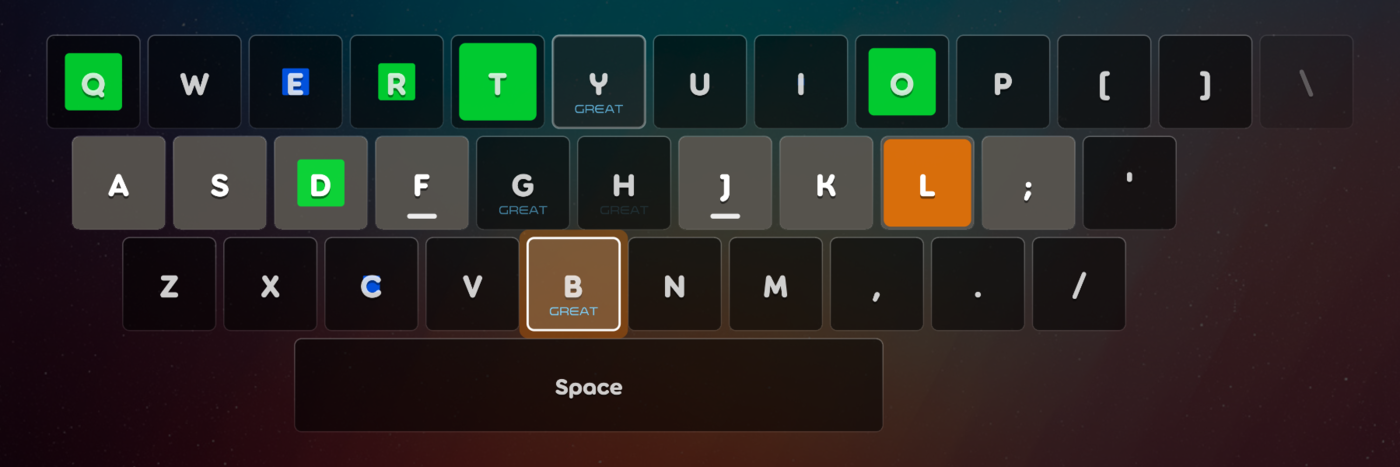
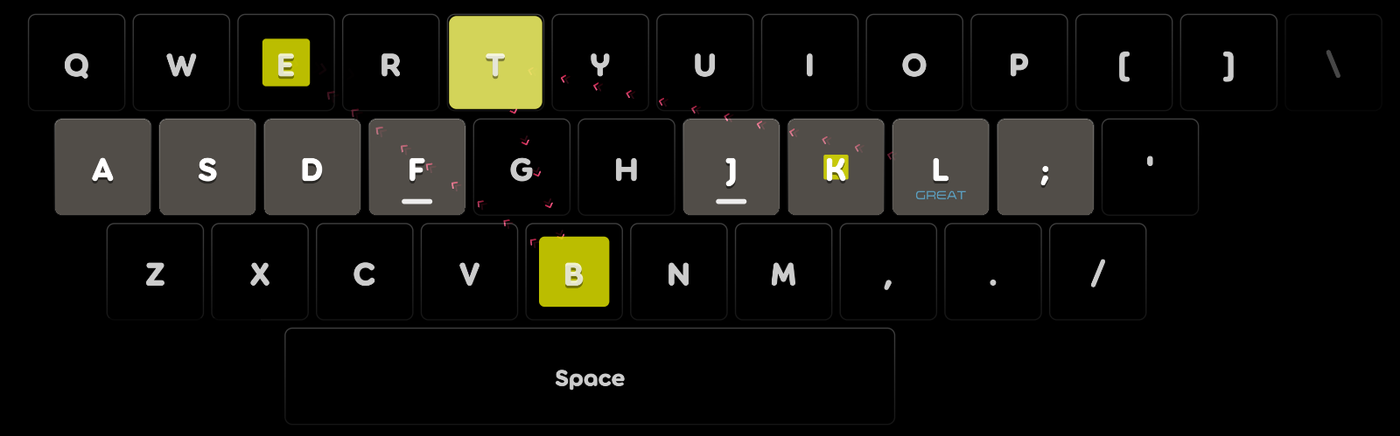
Rewrite the README for players, with new screenshots
The README now starts with what the game is and how to play it, lists
the mods in a table with keybosu!'s own explained, and keeps install and
settings short. Conversion details, building and tests moved into a
folded section for developers. The Turkish summary covers the mods,
follow points and the new setting.

New gameplay screenshot (follow points and the glow at the exact
moment) and one of the Left Hand mod with the unused half dimmed.

Built with AI assistance.

diff --git a/README.md b/README.md
@@ -1,114 +1,130 @@
 # keybosu!
 
-A custom ruleset for [osu!lazer](https://github.com/ppy/osu) where the whole keyboard is the playfield.
+**Your whole keyboard is the playfield.** keybosu! is a game mode (ruleset) for [osu!lazer](https://github.com/ppy/osu):
+coloured squares grow inside the keys of an on-screen keyboard, and you press each key the moment its square is full.
+Every osu! beatmap you already have works: it is converted automatically.
 
-![keybosu! gameplay: coloured squares growing inside the keys of an on-screen keyboard](docs/images/gameplay.png)
+![keybosu! gameplay: coloured squares growing inside the keys of an on-screen keyboard, with follow points leading from one note to the next](docs/images/gameplay.png)
 
-**[Download the latest release](../../releases/latest)** · [How to install](#install) · [Türkçe](#türkçe)
+**[Download the latest release](../../releases/latest)** · [Install](#install) · [Türkçe](#türkçe)
 
-Every letter key - plus the punctuation keys next to the letters - is a square on screen. A coloured square grows
-inside a key; **press that key the moment it fills the key**. Spinners become a hold on the Space bar.
-Any existing osu! beatmap can be played: it is converted automatically.
+## How to play
 
-## How it plays
-
-- **Notes:** each note of the original map goes to the key nearest to where it was on the osu! playfield
-  (top of the screen → top letter row, bottom → bottom row). A key never shows two notes at once: the next one
-  only appears when the previous one is over.
-- **Easier by default:** notes closer than half a beat (180 ms at least) are thinned out and notes at the same moment
-  become one. The keys at the far left and right get only about a quarter of the notes they would. The **Original Density** mod
-  (OG) brings back every note on every key.
-- **Sliders** become a press where they start and a press where they end. Short ones (under about one and a half
-  beats) are only the first press. Reverse sliders also get a press on every turn, unless the turns come that quickly.
-- **Spinners** (and taiko swells / catch banana showers) become a hold on the Space bar. Hold Space for the whole
-  spinner: a circle grows out from the middle as you hold. 90%+ is Great, 60%+ Ok, 30%+ Meh, otherwise Miss.
-- **osu!mania hold notes** become a single press where they start.
-- **Timing** is exactly osu!standard's (300 / 100 / 50): ±49.5 / 99.5 / 149.5 ms at OD 5, the same OD curves and
-  rounding, and pressing up to 400 ms early is a Miss.
-- **Approach:** squares follow the map's approach rate (AR), but quick ones take twice as long, up to 1400 ms. Finding a key
-  among 33 takes longer than moving a cursor. Original Density brings back the map's own speed.
-- **Colours** are the combo colours, like osu!: from the map when osu!'s "Beatmap colours" setting is on, otherwise
-  from your skin's `skin.ini` (`Combo1`, `Combo2`, ...), moving to the next colour at every new combo.
-- **Judgements** (Great / Ok / Meh / Miss) appear small under the letter of the key you hit, using your skin's own
-  graphics (legacy skins: `hit300` / `hit100` / `hit50` / `hit0`).
-- After a **pause**, the same 3-2-1 countdown as osu!mania plays before the map continues.
-- **Follow points** lead from each note to the next, exactly like osu!'s: the same spacing, timing and animation, and
-  your skin's own follow points (classic skins' `followpoint` images, Argon's chevrons, Triangles' dots). Not between
-  keys that touch, across a new combo or around spinners. Can be turned off in the settings.
-- Mods, grouped like osu!'s own:
-  - Difficulty reduction: Easy, No Fail, Half Time, Daycore
-  - Difficulty increase: Hard Rock, Sudden Death, Perfect, Double Time, Nightcore, Hidden (notes fade out before they are due),
-    Original Density
-  - Conversion: Difficulty Adjust, Mirror (the keyboard flipped left to right), Left Hand and Right Hand (every note on one half), Home Row (every note on the eight keys your fingers rest on)
-  - Automation: Autoplay, Cinema
-  - Fun: Wind Up, Wind Down, Muted
-- Input is read by physical key position, so your OS keyboard language does not matter.
+- A square grows inside a key. **Press that key when the square fills it.** The square brightens as the moment comes
+  and is brightest exactly on time; if it starts to fade, you are late.
+- **Follow points** lead from each note to the next, like in osu!. They use your skin.
+- **Spinners** become a hold on the Space bar: keep Space down until the spinner ends.
+- Notes land near where they were in the original map: the top of the screen is the top letter row, the left is the left.
+- Timing and scoring are the same as osu!: Great, Ok, Meh and Miss, shown under the key you pressed with your skin's
+  own graphics. Note colours are your skin's (or the map's) combo colours.
+- The game reads keys by where they are, not by what they type, so any keyboard language works. Pick what is printed
+  on your keys in the settings.
 
 ![A spinner on the Space bar: a circle grows out from the middle while Space is held](docs/images/spinner.png)
 
-## Settings
+## Mods
 
-Under *Settings → Ruleset → keybosu!*, in osu!'s current settings style:
+The mods you know from osu!, in the same groups, plus a few of keybosu!'s own.
 
-| Setting | What it does |
+| Group | Mods |
 |---|---|
-| **Keyboard layout** | What is printed on the keys. One layout for every language osu! supports, without duplicates (29, named in their own language, most used first). English QWERTY also covers Indonesian, Filipino, Malay, Dutch, Polish, Lithuanian, Latvian, Vietnamese and Chinese; Spanish covers Catalan. Plus Turkish F, Dvorak and Colemak. |
-| **Keyboard type** | ANSI (flat Enter) or ISO (tall Enter, extra key left of Z). |
-| **Screen centre** | Which point sits exactly in the middle of the screen: the whole keyboard, the Space bar, or the point between the index fingers (halfway between F and J). |
-| **Highlight home row keys** | Gives the eight keys your fingers rest on a lighter colour. The bumps on the index-finger keys are always shown. |
-| **Show judgements** | Turns the Great / Ok / Meh / Miss text under the keys on or off. |
+| Difficulty reduction | Easy, No Fail, Half Time, Daycore |
+| Difficulty increase | Hard Rock, Sudden Death, Perfect, Double Time, Nightcore, Hidden, **Original Density** |
+| Conversion | Difficulty Adjust, Mirror, **Left Hand**, **Right Hand**, **Home Row** |
+| Automation | Autoplay, Cinema |
+| Fun | Wind Up, Wind Down, Muted |
 
-A button at the bottom opens this page, for feedback and bug reports. Settings apply the next time a map starts. All texts are translated into the 39 languages osu! supports and follow
-osu!'s own language setting.
+keybosu!'s own mods:
 
-## Translations
+- **Original Density** – maps are made easier by default (very fast notes are thinned out, and the keys at the far
+  edges are used less). This mod gives you every note of the map, on every key, at the map's own speed.
+- **Left Hand / Right Hand** – every note lands on one half of the keyboard, for playing with one hand.
+- **Home Row** – every note lands on the eight keys your fingers rest on (A S D F and J K L ; on a QWERTY keyboard).
+- **Mirror** – the map flipped left to right.
+- **Hidden** – notes fade out before they are due, so you press them from memory.
 
-The translations were first made with AI help, so some may read oddly. If you speak one of these languages, you can
-fix them on [Crowdin](https://crowdin.com/project/keybosu): no coding or GitHub account needed. Approved changes come back here automatically
-and ship with the next release.
+Keys that a mod leaves without notes are drawn dim:
 
-The English source is `Keyboard/osu.Game.Rulesets.Keyboard/Resources/Localisation/en.ini`; the other files in that
-folder come from Crowdin, so please don't edit them in a pull request.
+![The Left Hand mod: notes only on the left half of the keyboard, the right half dimmed](docs/images/left-hand.png)
 
 ## Install
 
 1. Download `osu.Game.Rulesets.Keybosu.dll` from the [latest release](../../releases/latest).
-2. Put it in the `rulesets` folder of your osu!lazer data folder (create the folder if it is missing):
-   - Linux: `~/.local/share/osu/rulesets/`
+2. Put it in the `rulesets` folder inside your osu!lazer data folder (create the folder if it is not there):
    - Windows: `%AppData%\osu\rulesets\`
+   - Linux: `~/.local/share/osu/rulesets/`
    - macOS: `~/Library/Application Support/osu/rulesets/`
-3. Updating from an older version? Delete `osu.Game.Rulesets.Keyboard.dll` from that folder. Your scores and settings stay.
-4. Restart osu!lazer. **keybosu!** appears in the ruleset selector.
+3. Restart osu!lazer. **keybosu!** is now in the list of game modes.
 
-From source (needs the .NET SDK): `./install.sh` builds the ruleset and copies it to the Linux folder above
-(set `OSU_DATA` for another data folder).
+Updating? Close osu!lazer, replace the file, start the game again. Your scores and settings stay.
+If you still have a very old `osu.Game.Rulesets.Keyboard.dll` in that folder, delete it.
 
-**Compatibility:** built for ruleset API `2026.818.0` and checked against osu!lazer 2026.1005 on Linux. If an osu!lazer
-update changes the ruleset API, the ruleset has to be rebuilt.
+## Settings
+
+Under *Settings → Ruleset → keybosu!*. They apply the next time a map starts.
+
+| Setting | What it does |
+|---|---|
+| **Keyboard layout** | What is printed on the keys: 29 layouts, from English QWERTY to Turkish F, AZERTY, Dvorak and more. |
+| **Keyboard type** | ANSI (flat Enter) or ISO (tall Enter, with an extra key left of Z). |
+| **Screen centre** | Which part of the keyboard sits in the middle of the screen: the whole keyboard, the Space bar, or the point between your index fingers. |
+| **Highlight home row keys** | Gives the eight keys your fingers rest on a lighter colour. |
+| **Show judgements** | Great / Ok / Meh / Miss under the key you pressed. |
+| **Show follow points** | The points that lead from each note to the next. |
+
+Everything is translated into the 39 languages osu! supports and follows osu!'s own language setting.
 
 ## Good to know
 
-- Custom rulesets never award PP.
-- osu!'s key overlay shows nothing in this ruleset: the keyboard on screen already shows every key.
-- Please keep the default key bindings unless you have to change them. If your keyboard doesn't match, pick it under *Keyboard layout* instead.
-- The extra keys (ANSI backslash, ISO key left of Z) are drawn dimmed, never get notes and don't react when pressed. The ISO key at the end of
-  the home row cannot be read by osu!framework at all, so it is only drawn.
-- While osu!lazer offers "skip intro" it takes Space for itself, so a spinner right at the very start of a map only
-  counts once the skip button is gone. Pausing during a break or the intro resumes without a countdown (as in osu!mania).
-- Not done yet: replay recording (Autoplay works) and a star rating of its own. Stars are the map's osu! stars, because song select sorts by those.
+- Custom rulesets never give PP.
+- Please keep the default key bindings. If your keyboard does not match, choose it under *Keyboard layout* instead.
+- A few keys that only some keyboards have are drawn dim and never get notes.
+- Star ratings are the map's osu! stars; only the speed mods change them.
+- Replays are not recorded yet (Autoplay works).
+- If osu!lazer says the ruleset was disabled after a crash, install the latest release again.
+- Built for osu!lazer 2026.1026. After a big osu!lazer update the ruleset may need a new release.
 
-## Development
+Found a bug or have an idea? [Open an issue](../../issues).
+
+## Translations
+
+The translations were first made with AI help, so some may read oddly. If you speak one of the languages, you can fix
+them on [Crowdin](https://crowdin.com/project/keybosu): no coding and no GitHub account needed.
+
+## For developers
+
+<details>
+<summary>How maps are converted, building and tests</summary>
+
+**Conversion**
+
+- Each object goes to the key nearest to its place on the osu! playfield. A key never shows two notes at once.
+- By default, notes closer than half a beat (at least 180 ms) are thinned out, and the first key and last two keys of
+  each row get about a quarter of their notes. Original Density turns both off.
+- Sliders become a press at the start and one at the end (short ones only the start); reverse sliders also get a
+  press on each turn. Spinners, taiko swells and catch banana showers become a hold on Space. osu!mania holds become
+  one press.
+- Hit windows are osu!standard's (±49.5 / 99.5 / 149.5 ms at OD 5). Quick approach rates are doubled, up to 1400 ms,
+  because finding a key takes longer than moving a cursor.
+- Follow points are a port of osu!lazer's: a point every 32 units, the same timing and animation, the skin's
+  `followpoint` images, Argon's chevrons or the default dots. None between keys that touch, across a new combo or
+  around spinners.
+
+**Build and test** (needs the .NET SDK)
 
 ```sh
+./install.sh                                                  # build and install into osu!lazer (Linux)
 dotnet test Keyboard/osu.Game.Rulesets.Keyboard.Tests -c Release
 ```
 
-The tests run headless. They press every key through the real input pipeline, load real plays on every keyboard
-type, play spinners and autoplay, pause and resume, measure the layout on screen, and check conversion, judgements,
-translations and settings.
+The tests run without a window. They press keys through the real input pipeline, play maps with every mod and on
+every keyboard type, and check conversion, timing, follow points, translations and settings.
 
-**Never renumber `KeyboardAction`** and never change `ShortName` (`keyboard`): osu!lazer stores key bindings by
-those numbers, and settings, bindings and scores under that name. `TestActionNumbering` and `TestRulesetName` guard this.
+**Never renumber `KeyboardAction`** and never change `ShortName` (`keyboard`): osu!lazer stores key bindings, settings
+and scores under them. The English texts are in `Keyboard/osu.Game.Rulesets.Keyboard/Resources/Localisation/en.ini`;
+the other files there come from Crowdin, so please do not edit them in a pull request.
+
+</details>
 
 ## Licence
 
@@ -120,10 +136,18 @@ keybosu! is a fan-made ruleset and is not affiliated with ppy.
 
 ## Türkçe
 
-**keybosu!**, bütün klavyenin oyun alanı olduğu bir osu!lazer ruleset'i. Tuşların içinde renkli kareler büyür, kare
-tuşu doldurduğu anda o tuşa basarsın. Spinner'larda Space'e basılı tutarsın. Slider'lar başta ve sonda birer basış olur, kısa olanlar tek basıştır. Haritalar varsayılan olarak seyreltilir ve en kenar tuşlara daha az nota gelir, her notayı istersen Original Density modunu aç. Bütün osu! haritaları otomatik olarak
-dönüştürülür. Zamanlama osu!standard ile birebir aynıdır, renkler skin'inin ya da haritanın combo renkleridir.
-Ayarlar (klavye düzeni, klavye türü, ekran merkezi, temel sıra vurgusu, isabet dereceleri) osu!'nun desteklediği
-39 dile çevrilidir. Çeviriler ilk olarak yapay zekâ yardımıyla yapıldı; garip ya da yanlış bir şey görürsen
-[Crowdin](https://crowdin.com/project/keybosu) üzerinden düzeltebilirsin, kodlama ya da GitHub hesabı gerekmez.
-Kurulum için yukarıdaki *Install* bölümüne bak. Özel rulesetler PP vermez.
+**keybosu!**, bütün klavyenin oyun alanı olduğu bir osu!lazer oyun modu. Ekrandaki klavyenin tuşlarında renkli kareler
+büyür; kare tuşu doldurduğu anda o tuşa basarsın. Elindeki bütün osu! haritaları otomatik olarak dönüştürülür.
+
+- **Nasıl oynanır:** Kare dolarken parlar ve tam zamanında en parlak hâline gelir; solmaya başladıysa geç kaldın.
+  Follow point'ler bir notadan sonrakine yol gösterir. Spinner'larda Boşluk tuşuna basılı tutarsın.
+- **Modlar:** osu!'daki modlar aynı gruplarda (Easy, Hard Rock, Double Time, Nightcore, Hidden, Sudden Death...).
+  keybosu!'ya özel olanlar: **Original Density** (haritanın bütün notaları), **Left Hand / Right Hand** (tek elle),
+  **Home Row** (sadece parmakların durduğu sekiz tuş) ve **Mirror**.
+- **Kurulum:** [Son sürümden](../../releases/latest) `osu.Game.Rulesets.Keybosu.dll` dosyasını indir, osu!lazer veri
+  klasöründeki `rulesets` klasörüne koy (Windows: `%AppData%\osu\rulesets\`, Linux: `~/.local/share/osu/rulesets/`),
+  oyunu yeniden başlat.
+- **Ayarlar:** Klavye düzeni (Türkçe Q ve F dahil 29 düzen), klavye türü, ekran merkezi, temel sıra vurgusu, isabet
+  dereceleri ve follow point'ler. Hepsi osu!'nun desteklediği 39 dile çevrili.
+- Özel rulesetler PP vermez. Çevirilerde hata görürsen [Crowdin](https://crowdin.com/project/keybosu) üzerinden
+  düzeltebilirsin.
